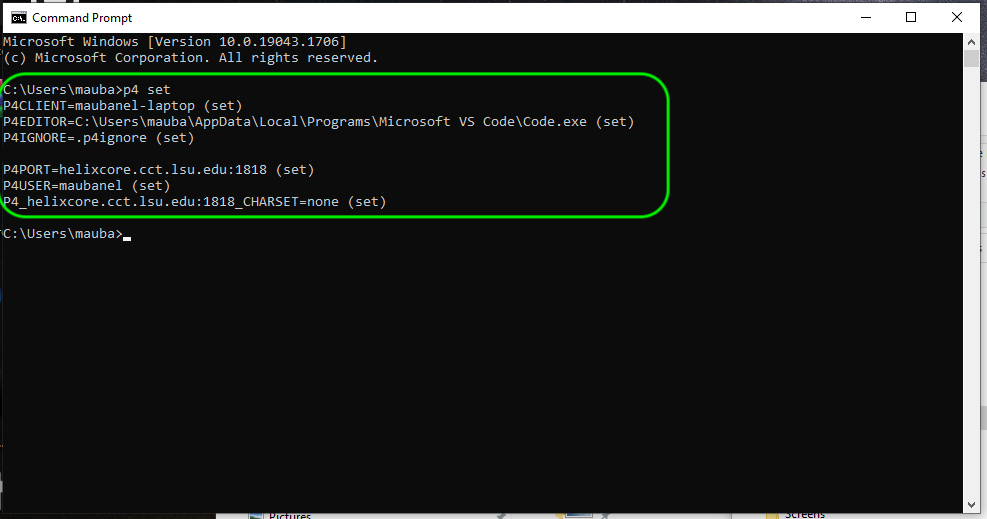
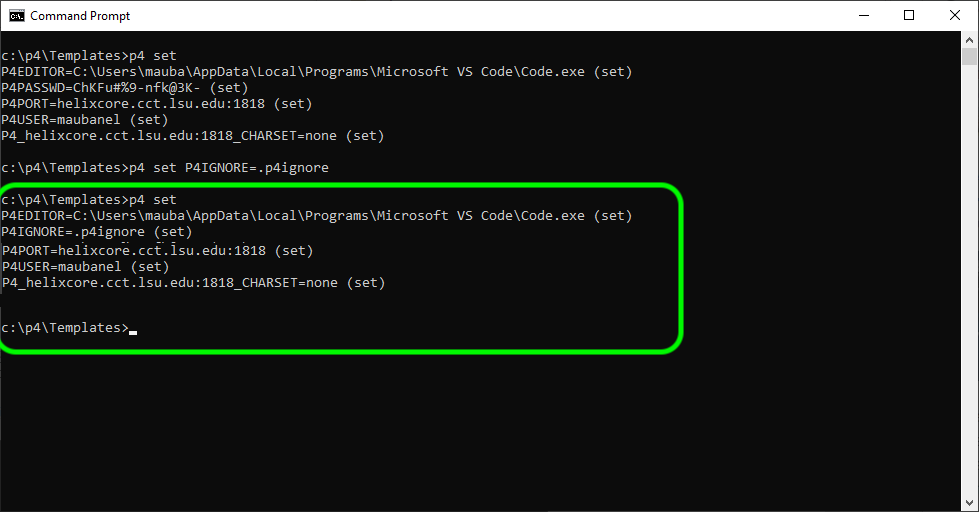
ue4 hello world update p4v

Changed region(s): [[0.0, 0.0, 1.0, 1.0], [0.0, 0.1875, 0.7048, 0.7188]]

diff --git a/workspaces/README.md b/workspaces/README.md
@@ -111,27 +111,29 @@ If you are not in a workspace or in the wrong workspace you can switch to it by 
 
 For working in **UE5** you need to make sure the is a `.p4ignore` file in the root of the project (in the same directory as the `.uproject` file). If you are going to bre adding an existing project to this folder you can download a preconfigured file [.p4ignore](../files/.p4ignore).
 
+![make sure p4ignore is present](images/sameDirectory.png)
 
+![](../images/line2.png)
 
-Now we need to make sure that your workspace is set up to recognize the `.p4ignore` file.  Go to a commmand prompt and enter `p4 set P4IGNORE=.p4ignore` environment variable.
+##### `Step 13.`\|`BTS`| :large_blue_diamond: :small_blue_diamond: :small_blue_diamond:  :small_blue_diamond: 
 
-![enter p4ignore environment variable](images/setp4ignorevar.png)
+Now there is a final step. We need to make sure that your workspace is set up to recognize the `.p4ignore` file.  Go to a commmand prompt and enter `p4 set P4IGNORE=.p4ignore` environment variable.
 
+![set up .p4ignore to be recognized in workspace](images/setp4ignorevar.png)
+
+![](../images/line2.png)
+
+##### `Step 14.`\|`BTS`| :large_blue_diamond: :small_blue_diamond: :small_blue_diamond: :small_blue_diamond:  :small_blue_diamond: 
 
 Now press `p4 set` to see if all your settings are correct.  The most important ones are **P4CLIENT** which is your **Workspace**. **P4IGNORE** should now be set to `.p4ignore`.  The **P4PORT** should be pointing to `helixcore.cct.lsu.edu:1818` and **P4USER** should be your perforce username.
 
 If any of these are wrong or missing you can set them with `p4 set P4CLIENT=nameofworkspace`.  Make sure there are no spaces before and after the `=` sign.
 
 ![confirm p4 set settings](images/p4Set.png)
-
+p4Set
 
 ![](../images/line2.png)
 
-##### `Step 12.`\|`BTS`| :large_blue_diamond: :small_blue_diamond: :small_blue_diamond: 
-
-Confirm that the `.p4ignore` file works by right clicking on the depot then selecting `Reconcile Offline Work...`.  Files in the `.p4ignore` file should not be included.  In this case our file in the **Saved** folder was not added to the depot.
-
-![check .p4ignore file](images/checkP4Ignore.png)
 
 ![](../images/line.png)
 
